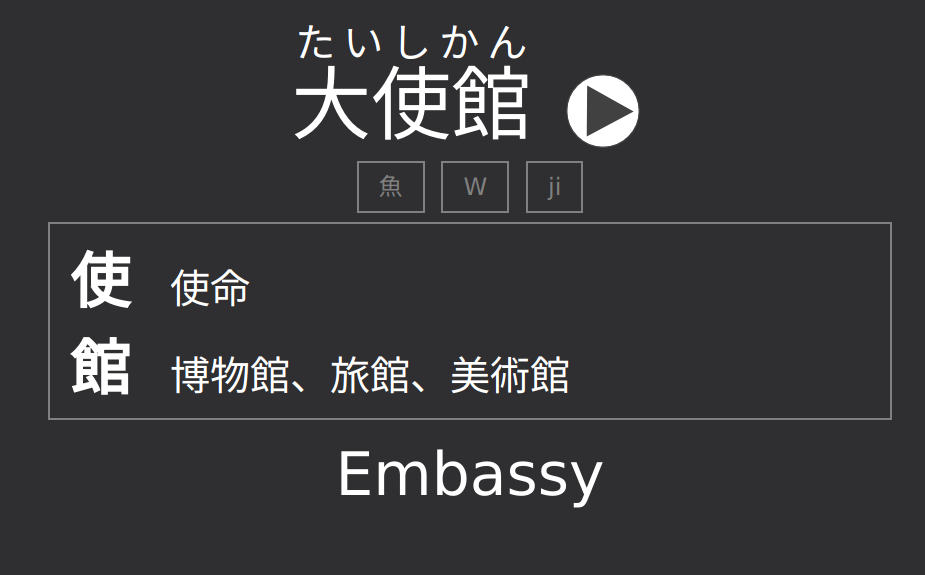
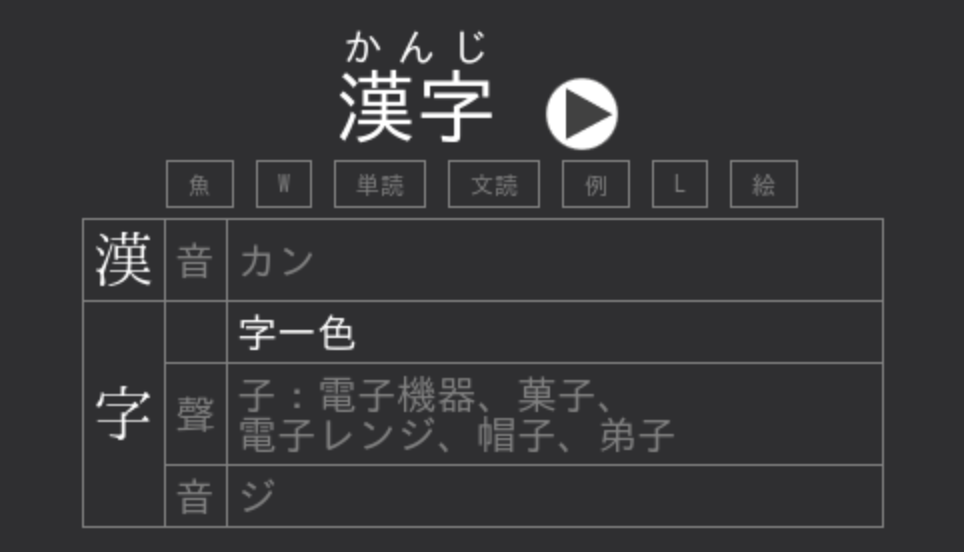
Update readme to reflect changes

Changed region(s): [[0.0605, 0.0308, 0.9686, 0.9547]]

diff --git a/README.ankiweb.html b/README.ankiweb.html
@@ -1,47 +1,4 @@
 <img src="https://github.com/elizagamedev/anki-hanziweb/blob/main/screenshot.png?raw=true">
 This addon generates a “web” of hanzi/kanji amongst your Anki notes, adding a few examples taken from cards you’ve already reviewed for each hanzi in each note. The intent is that you’ll be able to more easily learn the readings of hanzi if you are reminded of other words it comprises that you’ve already studied.
 
-<b>Installation</b>
-
-Follow the instructions in the <b>Download</b> section below. You may alternatively download it from the <a href="https://github.com/elizagamedev/anki-hanziweb/releases">GitHub releases page</a>, then install in Anki via <code>Tools -&gt; Add-ons -&gt; Install from file…</code>.
-
-<b>Configuration</b>
-
-You can configure Hanzi Web through Anki after installing via <code>Tools -&gt; Add-ons -&gt; Hanzi Web -&gt; Config</code>. See <a href="https://github.com/elizagamedev/anki-hanziweb/blob/main/config.md">config.md</a>.
-
-You may want to also configure the CSS of your notes, as Hanzi Web does no styling by default. It instead exposes three CSS classes:
-<ul>
-<li><code>ol.hanziewb</code>, applied to the <code>&lt;ol&gt;</code> which contains each entry.</li>
-<li><code>span.hanziweb-hanzi</code>, which is the hanzi for which terms are listed (the left side of the screenshot shown above).</li>
-<li><code>span.hanziweb-terms</code>, which contains the entire list of terms (the right side of the screenshot shown above).</li>
-</ul>
-The styling in the above screenshot was achieved with the following CSS. You may copy it into your note type’s CSS if you wish.
-
-<code>ol.hanziweb {
-  list-style-type: none;
-  margin: 10px auto;
-  font-size: 20px;
-  max-width: 400px;
-  border-style: solid;
-  border-color: gray;
-  border-width: 1px;
-  padding: 5px 10px 5px 10px;
-}
-
-.hanziweb-hanzi {
-  font-weight: bold;
-  margin-right: 20px;
-  font-size: 30px;
-  font-family: serif;
-}</code>
-
-<b>Usage</b>
-
-Ensure that the note types of the notes you want to add web entries to have a field called “HanziWeb” (without quotes). Also ensure that you’ve configured Hanzi Web as described in the <b>Configuration</b> section, so that you are including the correct cards and using the hanzi from the correct fields. Make sure that you add <code>{{HanziWeb}}</code> to your cards’ HTML templates as well.
-
-Now you can add web entries to your notes by accessing <code>Tools -&gt; Hanzi Web -&gt; Update notes…</code> or by pressing <code>Control-W</code> (<code>Command-W</code> on macOS). A dialog with a report of the pending changes will be shown; you’ll want to consider this carefully if it’s your first time running Hanzi Web or if you’ve recently changed your configuration to make sure that you haven’t made any mistakes. Click “Apply” and your notes’ “HanziWeb” fields will be filled!
-
-<b>Links</b>
-<ul>
-  <li><a href="https://github.com/elizagamedev/anki-hanziweb">GitHub page</a></li>
-</ul>
+Please refer to the <a href="https://github.com/elizagamedev/anki-hanziweb">GitHub page</a> for more detailed documentation.

diff --git a/README.md b/README.md
@@ -13,38 +13,68 @@ it from the GitHub releases page, then install in Anki via `Tools -> Add-ons ->
 Install from file…`
 
 ## Configuration
+**Note that Hanzi Web has changed significantly from v0.1.3 to v1.0.0.** If you
+are getting nagged that your config is out of date, please re-read this section
+and then update your `config_version` to `1`.
+
 You can configure Hanzi Web through Anki after installing via `Tools -> Add-ons
 -> Hanzi Web -> Config`. See [config.md](config.md).
 
 You may want to also configure the CSS of your notes, as Hanzi Web does no
-styling by default. It instead exposes three CSS classes:
+styling by default. It instead exposes the following CSS classes:
 
-- `ol.hanziewb`, applied to the `<ol>` which contains each entry.
-- `span.hanziweb-hanzi`, which is the hanzi for which terms are listed (the left
+- `.hanziweb`, applied to the whole `<table>`.
+- `.hanziweb-hanzi`, which is the hanzi for which terms are listed (the left
   side of the screenshot shown above).
-- `span.hanziweb-terms`, which contains the entire list of terms (the right side
-  of the screenshot shown above).
+- `.hanziweb-kind`, which is applied to the `<td>` for the indicator for the "kind" of row.
+  This is 聲 for Chinese phonetic series (as in 諧聲) and 音 for Japanese
+  on'yomi readings (as in 音読). For the row containing the hanzi itself,
+  this is blank.
+- `.hanziweb-terms`, `.hanziweb-phonetic-series`, and `.hanziweb-onyomi`, which
+  is applied to the `<td>` for the list of terms for each of the corresponding
+  categories. This is the right-hand side of the table.
 
 The styling in the above screenshot was achieved with the following CSS. You may
 copy it into your note type’s CSS if you wish.
 
 ``` css
-ol.hanziweb {
-  list-style-type: none;
+.hanziweb {
   margin: 10px auto;
-  font-size: 20px;
   max-width: 400px;
   border-style: solid;
   border-color: gray;
   border-width: 1px;
-  padding: 5px 10px 5px 10px;
+  border-collapse: collapse;
+}
+
+.hanziweb td {
+  border-style: solid;
+  border-color: gray;
+  border-width: 1px;
+  padding: 5px;
 }
 
 .hanziweb-hanzi {
-  font-weight: bold;
-  margin-right: 20px;
+  font-family: IPAMincho, serif;
+  text-align: center;
   font-size: 30px;
-  font-family: serif;
+  margin: 5px;
+}
+
+.hanziweb-kind {
+  font-size: 20px;
+  text-align: right;
+}
+
+.hanziweb-terms {
+  font-size: 20px;
+  text-align: left;
+  word-break: keep-all;
+}
+
+.hanziweb-phonetic-series,
+.hanziweb-onyomi {
+  color: gray;
 }
 ```
 
@@ -73,7 +103,6 @@ each.
   generally helpful when learning Japanese), but rather to be able to have
   broader coverage when looking up Japanese words in Chinese dictionaries, for
   example, the [Outlier Dictionary of Chinese Characters](https://www.outlier-linguistics.com/products/outlier-dictionary-of-chinese-characters) in Pleco.
-
 
 ## Usage
 Ensure that the note types of the notes you want to add web entries to have a
